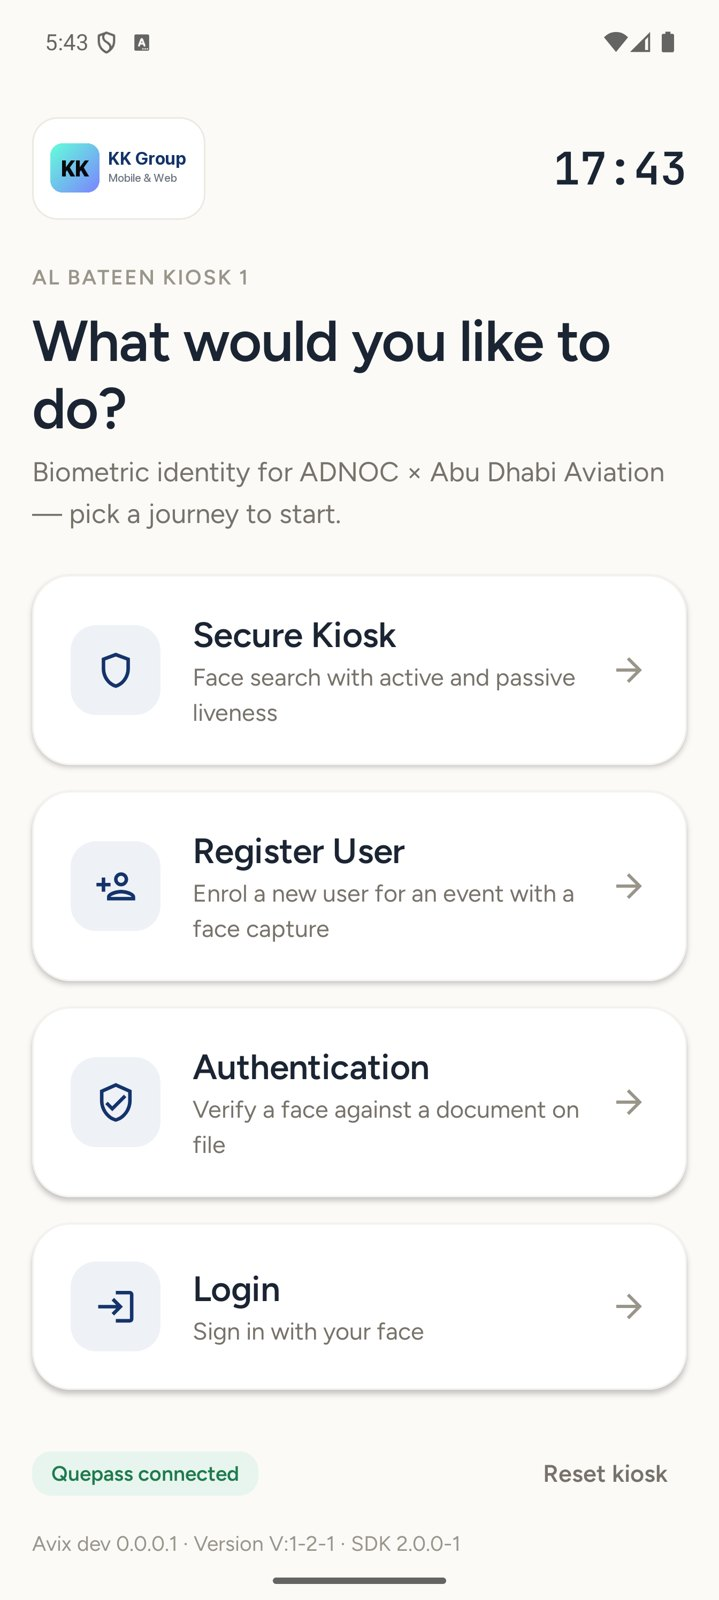
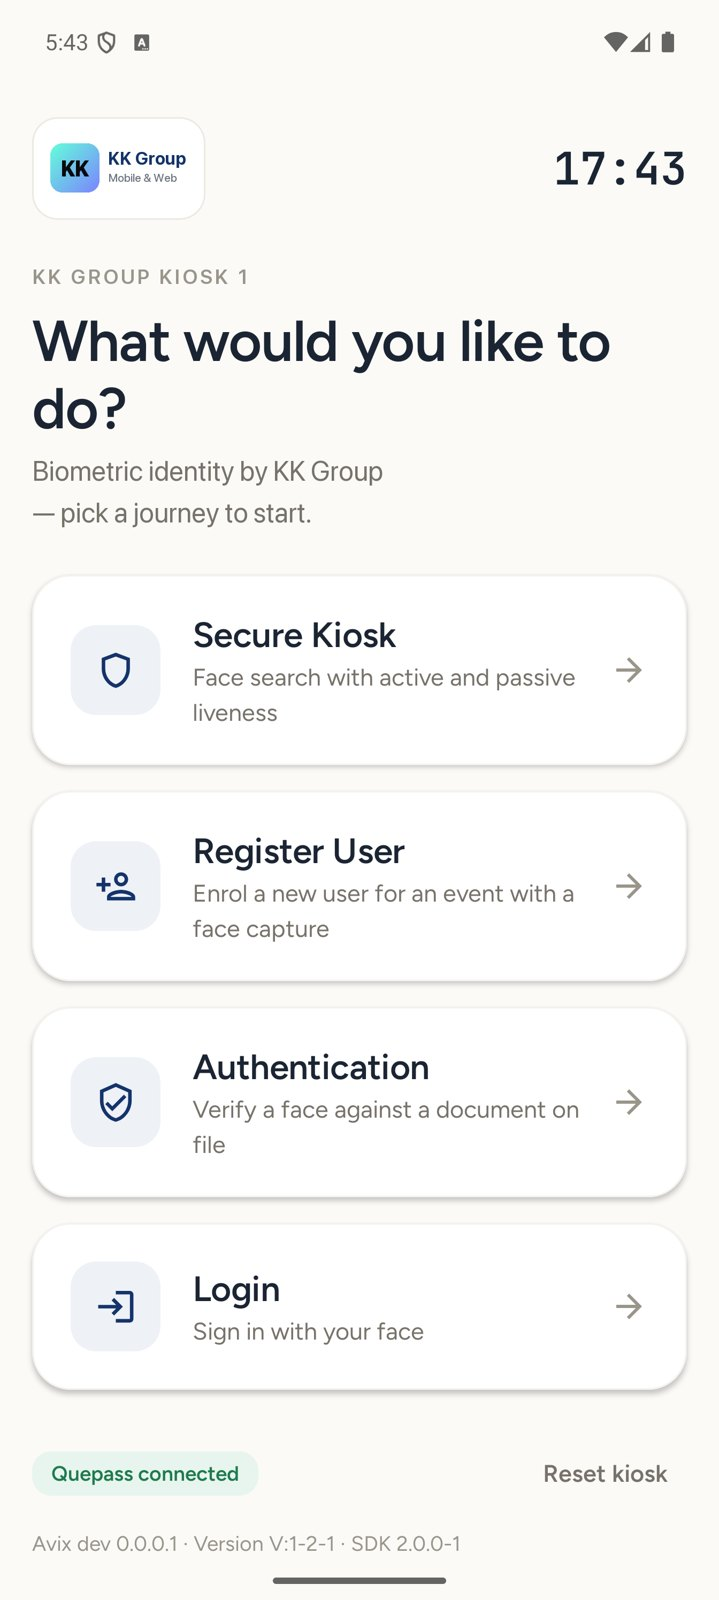
Avix: client names/branding replaced with KK Group

Changed region(s): [[0.0306, 0.2812, 0.5508, 0.3438], [0.612, 0.2812, 0.9179, 0.3125], [0.0306, 0.1562, 0.3366, 0.1875]]

diff --git a/src/data/resume.ts b/src/data/resume.ts
@@ -45,7 +45,7 @@ export const experience: Experience[] = [
       "Delivered face liveness (MiniFASNet anti-spoof), TFLite YOLO document OCR and NFC eMRTD passport reading on both platforms (JMRTD on Android, CoreNFC on iOS).",
       "Built shared-Kotlin crypto for ISO 18013-5 mDoc, COSE/JWS and a from-scratch CBOR codec — 16-test RFC/NIST conformance suite passing on JVM and Kotlin/Native.",
       "Migrated client apps (Quepass, Use Case App, Idp wallet, Angle) to KMP with Ktor, Koin, SQLDelight and MVI; CI runs the shared test suite on JVM and iOS simulator.",
-      "Built Avix — the ADNOC × Abu Dhabi Aviation check-in kiosk (KMP, Android + iOS) with hardware-backed device identity: P-256 keys in Android Keystore / iOS Secure Enclave, signed handshake, heartbeat and per-visit SDK credentials.",
+      "Built Avix — an airport check-in kiosk for an aviation client (KMP, Android + iOS) with hardware-backed device identity: P-256 keys in Android Keystore / iOS Secure Enclave, signed handshake, heartbeat and per-visit SDK credentials.",
       "Set up release pipelines on GitHub Actions: SDK publishing to GitHub Packages with auto version stamps, Android & signed iOS builds to Firebase App Distribution / TestFlight, Crashlytics on both platforms.",
       "Led end-to-end development of KYC and Digital Onboarding solutions — Face Liveness detection, OCR document scanning, and biometric authentication — reducing verification time by 35%.",
       "Architected production-grade Android apps from scratch using MVVM and Clean Architecture for scalability and maintainability.",
@@ -134,7 +134,7 @@ export type Project = {
 export const projects: Project[] = [
   {
     name: "Avix — Airport Check-in Kiosk",
-    category: "ADNOC × Abu Dhabi Aviation · KMP",
+    category: "Airport Check-in · Kotlin Multiplatform",
     period: "Oct 2026",
     featured: true,
     shots: ["/projects/avix/1.jpg", "/projects/avix/2.jpg", "/projects/avix/3.jpg"],
@@ -142,7 +142,7 @@ export const projects: Project[] = [
     screenIcon: "✈",
     screenLabel: "Kiosk check-in",
     description:
-      "Biometric check-in kiosk for ADNOC × Abu Dhabi Aviation, built as one Kotlin Multiplatform app for Android tablets and iPad on the Quepass KMP SDK. A kiosk enrols itself, proves its identity with a hardware-backed key, and then runs passenger journeys — secure kiosk face search, user registration, authentication and face login.",
+      "Biometric check-in kiosk for an aviation client, built as one Kotlin Multiplatform app for Android tablets and iPad on the Quepass KMP SDK. A kiosk enrols itself, proves its identity with a hardware-backed key, and then runs passenger journeys — secure kiosk face search, user registration, authentication and face login.",
     highlights: [
       "Device identity: P-256 key in Android Keystore / iOS Secure Enclave, signed handshake + heartbeat",
       "AVIX Secure Kiosk API — enrol, check-in, identify, baggage, boarding states",
